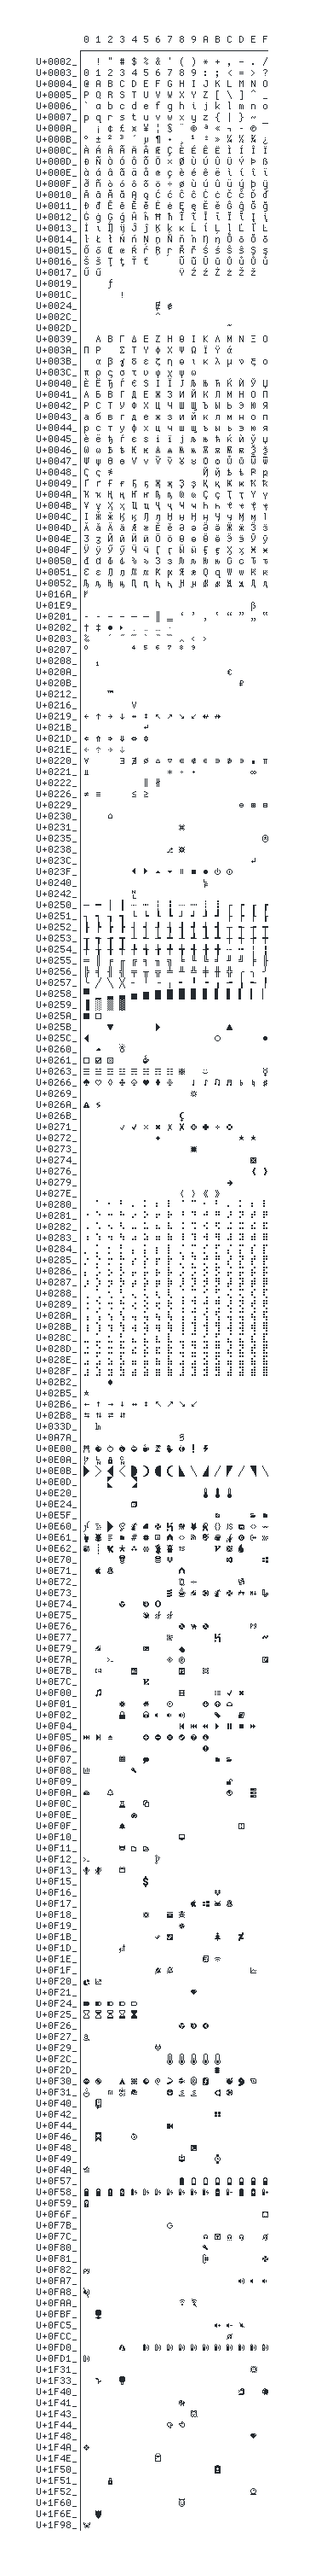
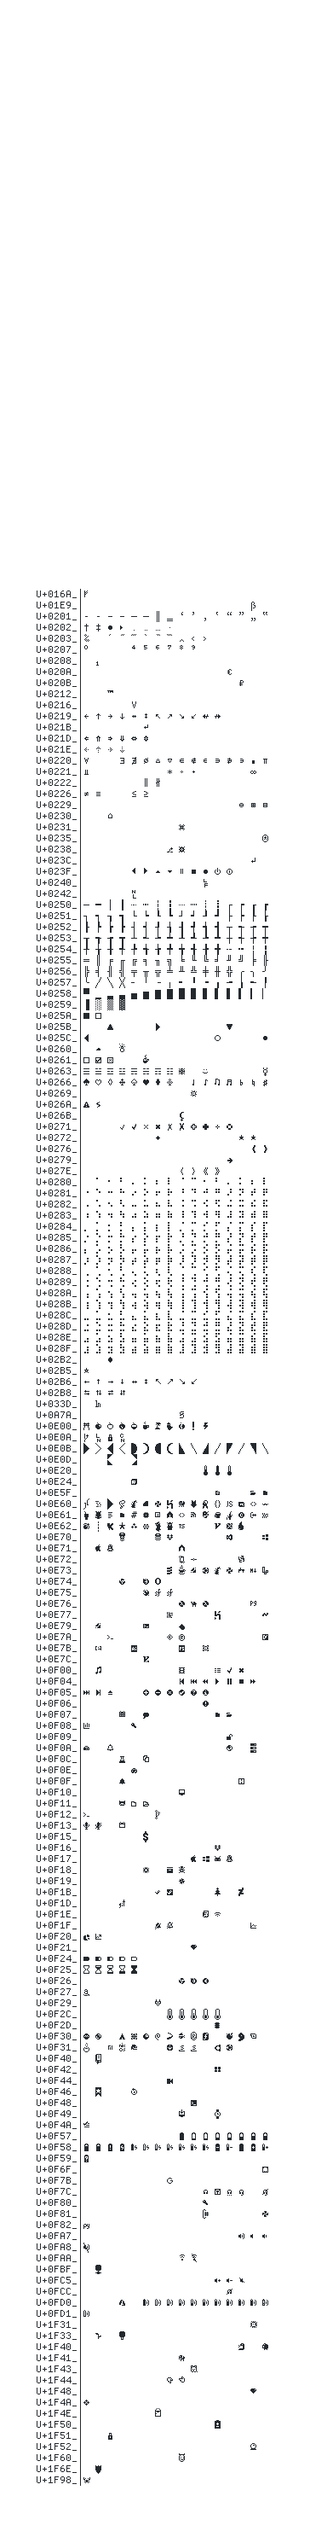
v.1.8.2 swap U+25B2 and U+25BC

diff --git a/CHANGELOG.md b/CHANGELOG.md
@@ -9,6 +9,14 @@ The format is based on [Keep a Changelog], and this project adheres to
 
 Nothing!
 
+## [1.8.2]
+
+### Fixed
+
+#### Glyphs
+
+- ▲ (U+25B2) and ▼ (U+25BC) were the wrong way around.
+
 ## [1.8.1]
 
 ### Changed
@@ -479,7 +487,9 @@ Still broken on Windows.
 
 [Keep a Changelog]: https://keepachangelog.com/en/1.0.0/
 [Semantic Versioning]: https://semver.org/spec/v2.0.0.html
-[unreleased]: https://github.com/slavfox/Cozette/compare/v.1.8.0...HEAD
+[unreleased]: https://github.com/slavfox/Cozette/compare/v.1.8.2...HEAD
+[1.8.2]: https://github.com/slavfox/Cozette/compare/v.1.8.1...v.1.8.2
+[1.8.1]: https://github.com/slavfox/Cozette/compare/v.1.8.0...v.1.8.1
 [1.8.0]: https://github.com/slavfox/Cozette/compare/v.1.7.2...v.1.8.0
 [1.7.2]: https://github.com/slavfox/Cozette/compare/v.1.7.1...v.1.7.2
 [1.7.1]: https://github.com/slavfox/Cozette/compare/v.1.7.0...v.1.7.1
